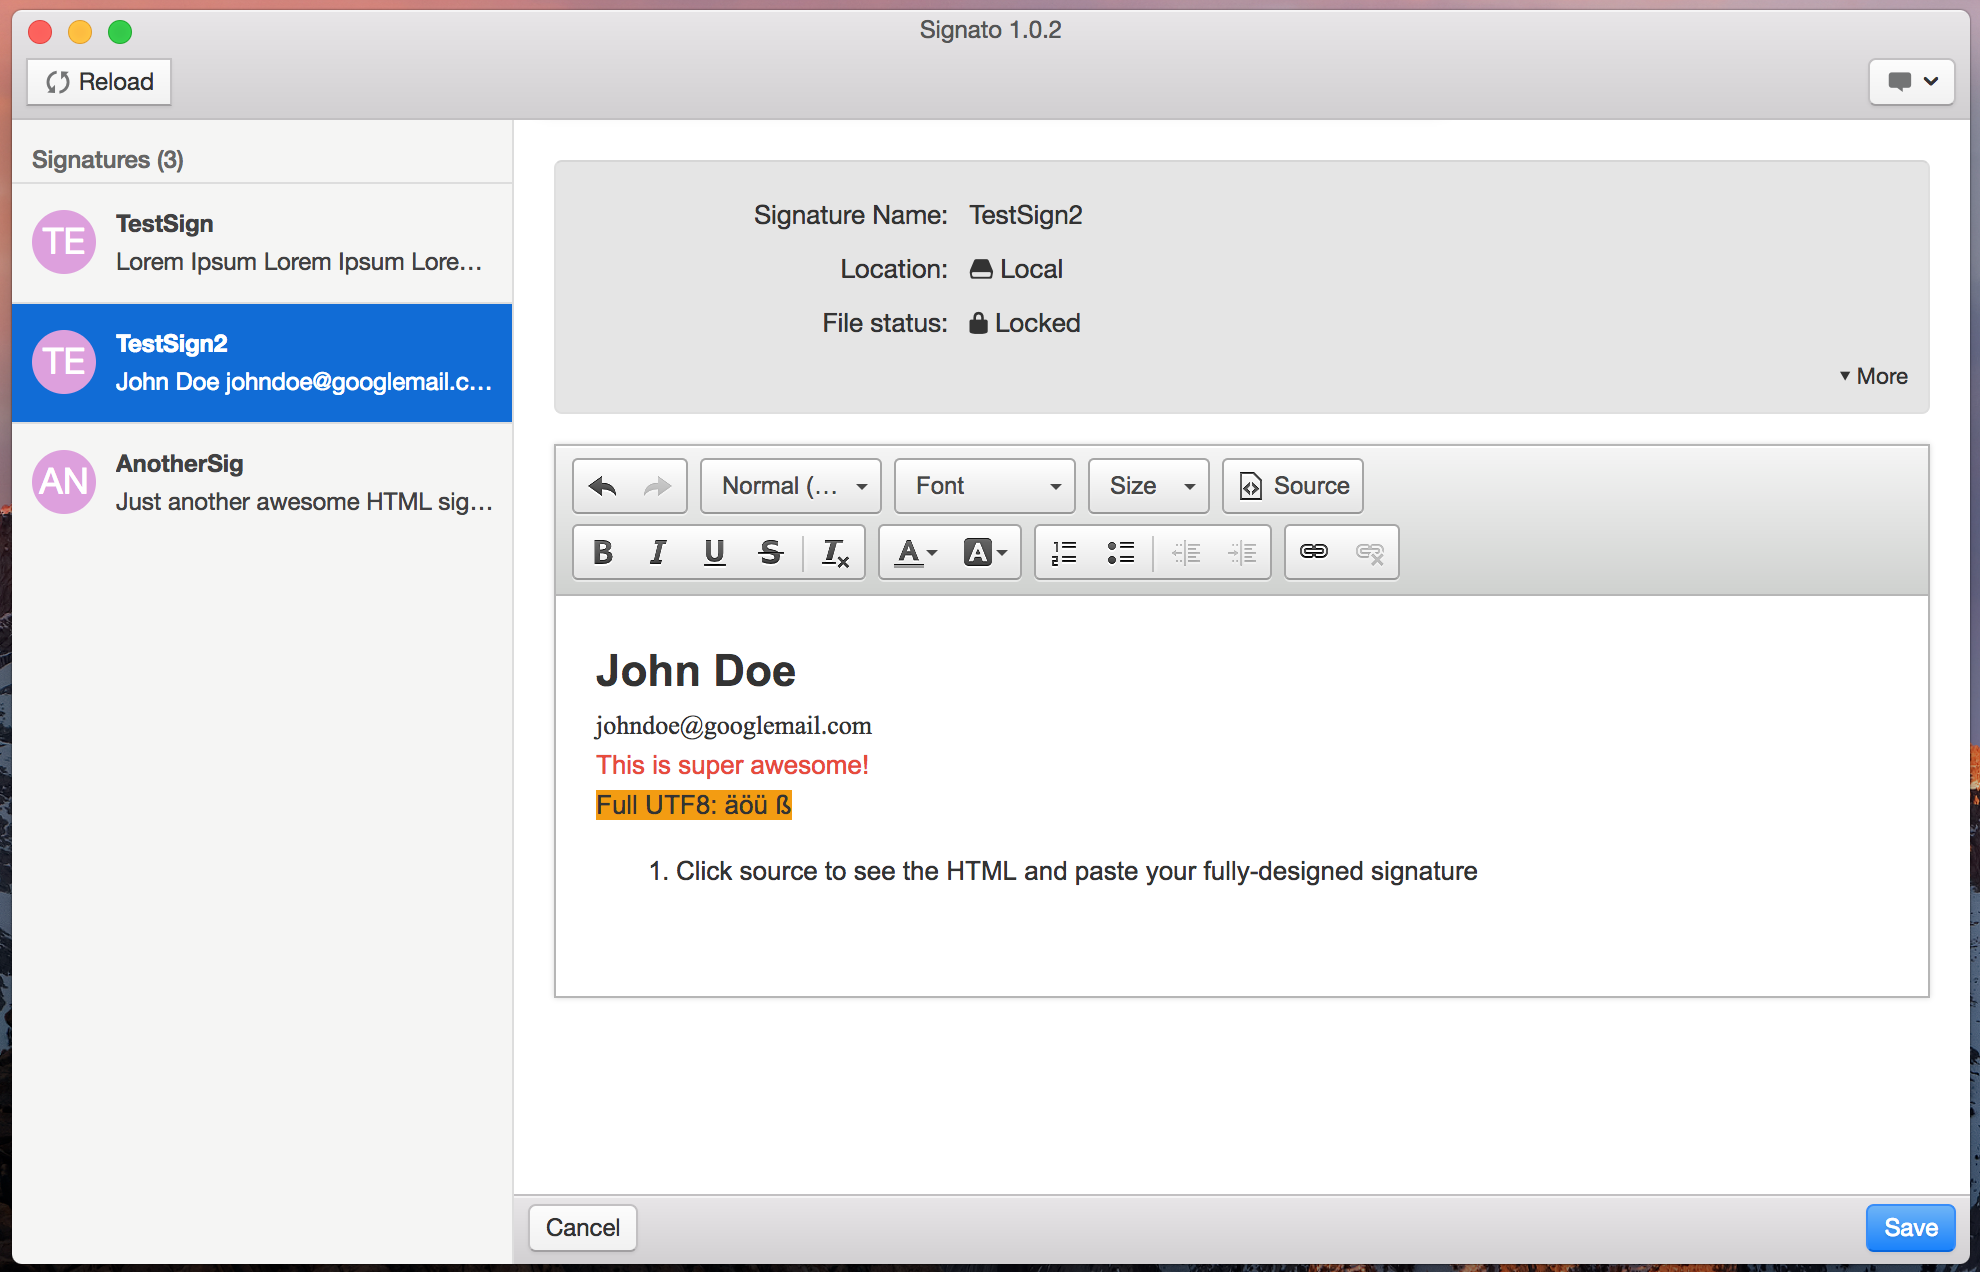
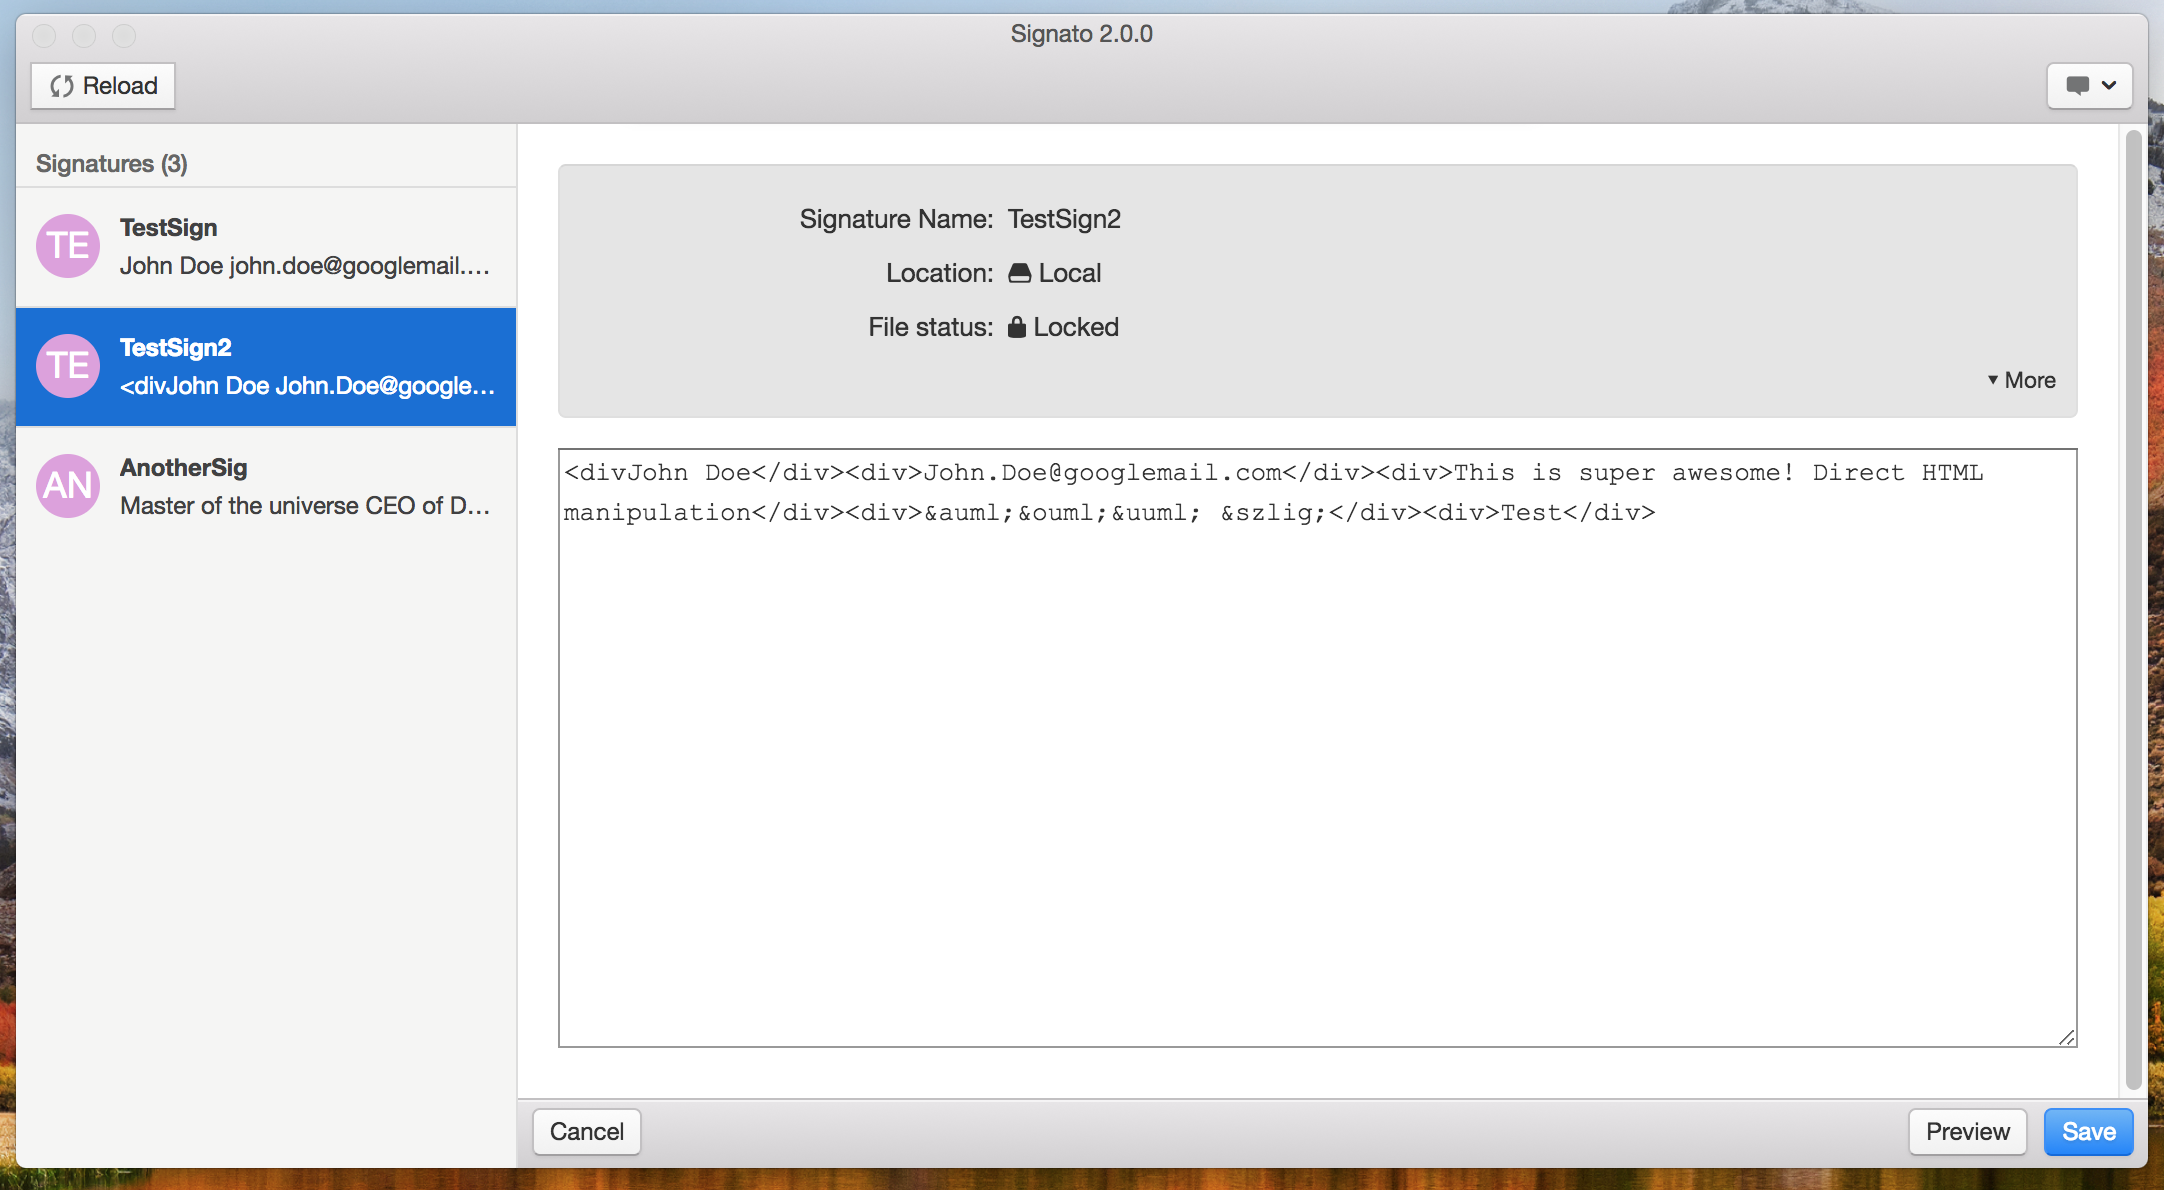
Update screenshot and readme (closes #116)

Changed region(s): [[0.0, 0.0, 1.0, 1.0], [0.2773, 0.4975, 0.7394, 0.7151]]

diff --git a/readme.md b/readme.md
@@ -16,8 +16,6 @@ Easily install HTML signatures in Apple Mail without fiddling around in hidden f
 
 This is a GUI version of the [signato](https://github.com/Nolanus/signato) script to easily install plain HTML signatures in Apple Mail.
 
-> **Known Issue** After editing the HTML source code return to "WYSIWYG" mode of the editor prior to saving the signature (see #86)
-
 ## Prerequisite
 
 Create your HTML signature. Notice the [limited support of certain CSS techniques in mail clients](https://www.campaignmonitor.com/css/) and place only the `body` tag and it's children in your signature HTML file for Apple Mail. Inline all style attributes, probably using a tool like [CSS Inliner](https://inliner.cm/).
